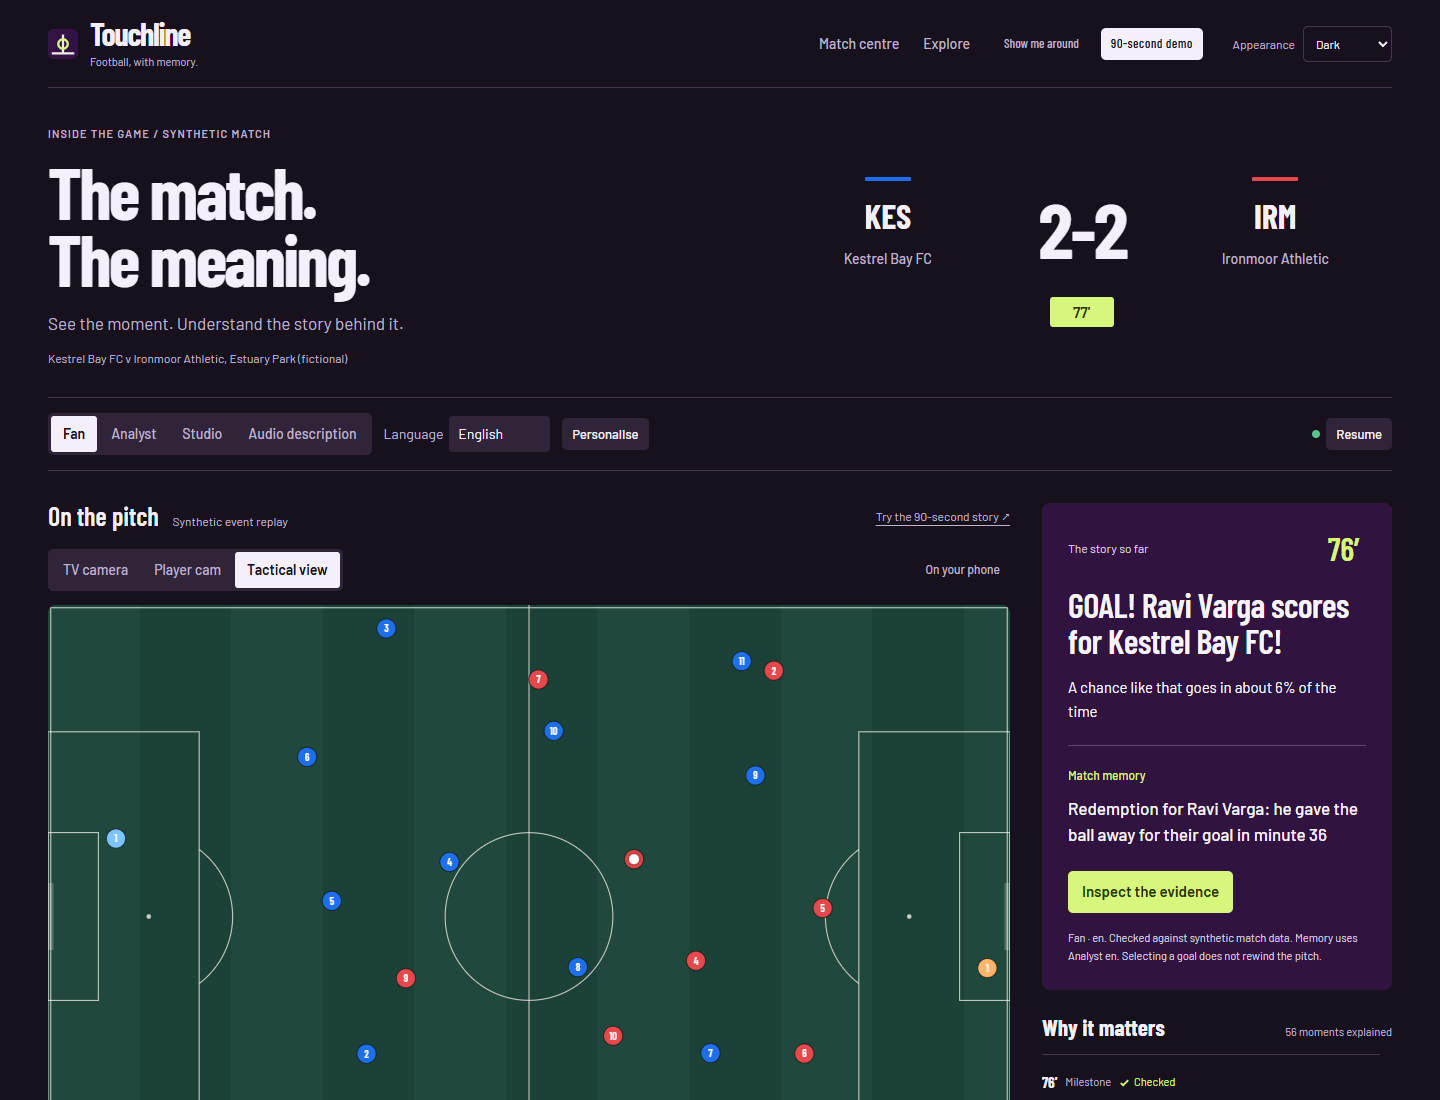
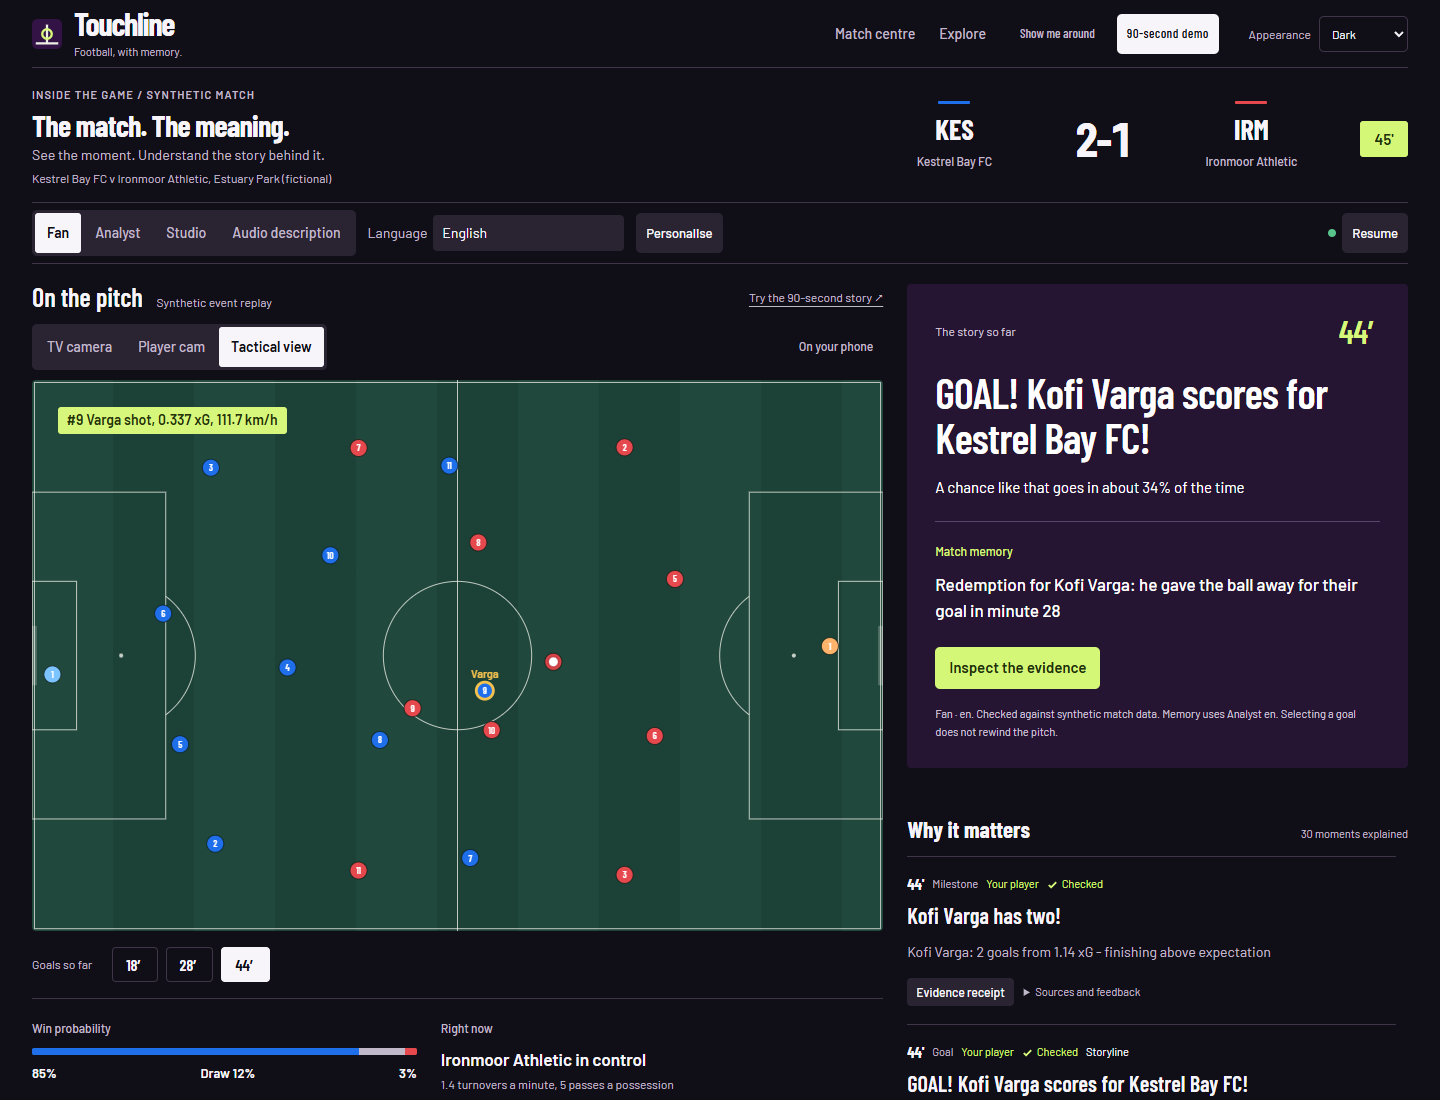
Fix hosted agent schemas and Functions indexing; preserve cloud proof (#8)

diff --git a/web/templates/touchline-graphics.html b/web/templates/touchline-graphics.html
@@ -160,4 +160,3 @@ if (qs.get("demo")) { document.body.classList.add("preview"); window.update(wind
 </script>
 </body>
 </html>
-

diff --git a/touchline/foundry_agents.py b/touchline/foundry_agents.py
@@ -24,6 +24,30 @@ log = logging.getLogger("touchline.foundry")
 PUBLISHED = {"AskTheAnalyst": "touchline-analyst", "Narrator": "touchline-narrator"}
 
 
+def strict_tool_schemas(definition):
+    """Complete the strict function schema contract omitted by to_prompt_agent.
+
+    Foundry accepts agent creation with an incomplete schema, then rejects every
+    invocation. Normalize before publication so the deployed definition is usable.
+    """
+    def normalize(node):
+        if isinstance(node, list):
+            for item in node:
+                normalize(item)
+        elif isinstance(node, dict):
+            node.pop("default", None)
+            if node.get("type") == "object" or "properties" in node:
+                node["additionalProperties"] = False
+                node["required"] = list(node.get("properties", {}))
+            for child in node.values():
+                if isinstance(child, (dict, list)):
+                    normalize(child)
+    for tool in definition.tools or []:
+        if tool.type == "function" and tool.strict:
+            normalize(tool.parameters)
+    return definition
+
+
 def definitions() -> dict[str, dict]:
     """Agent name -> description, instructions and (for tool-using agents) the tool functions."""
     from touchline.agents.ask import INSTRUCTIONS as ASK
@@ -57,11 +81,18 @@ def hosted_agent(runtime_name: str, tools: Optional[list[Callable]] = None):
         return None
     try:
         from agent_framework.foundry import FoundryAgent
+        from azure.ai.projects import AIProjectClient
         from azure.identity import DefaultAzureCredential
 
+        credential = DefaultAzureCredential()
+        version = os.getenv(f"TOUCHLINE_AGENT_VERSION_{PUBLISHED[runtime_name].split('-')[-1].upper()}")
+        if not version:
+            # Prompt agents require a version. Resolve the service's latest
+            # explicitly instead of allowing an implicit older default.
+            with AIProjectClient(endpoint=endpoint, credential=credential) as project:
+                version = project.agents.get(agent_name=PUBLISHED[runtime_name]).versions.latest.version
         return FoundryAgent(project_endpoint=endpoint, agent_name=PUBLISHED[runtime_name],
-                            agent_version=os.getenv(f"TOUCHLINE_AGENT_VERSION_{PUBLISHED[runtime_name].split('-')[-1].upper()}") or None,
-                            credential=DefaultAzureCredential(), tools=tools or None)
+                            agent_version=version, credential=credential, tools=tools or None)
     except Exception as exc:  # pragma: no cover - depends on Azure
         log.warning("Foundry hosted agent %s unavailable, using a local agent: %s", runtime_name, exc)
         return None
@@ -82,7 +113,7 @@ def publish(endpoint: str, model: str, rai_policy: str, git_sha: str = "") -> li
     for name, d in definitions().items():
         tools = tool_stubs() if d["tools"] == "analyst" else None
         agent = Agent(client, d["instructions"], name=name, description=d["description"], tools=tools)
-        definition = to_prompt_agent(agent, rai_config=RaiConfig(rai_policy_name=rai_policy))
+        definition = strict_tool_schemas(to_prompt_agent(agent, rai_config=RaiConfig(rai_policy_name=rai_policy)))
         v = project.agents.create_version(agent_name=name, definition=definition, description=d["description"],
                                           metadata={"app": "touchline", "git": git_sha[:12] or "local"})
         out.append({"name": name, "version": getattr(v, "version", None) or v.get("version"), "tools": len(tools or [])})

diff --git a/tests/test_foundry.py b/tests/test_foundry.py
@@ -2,7 +2,7 @@
 import importlib.util
 from pathlib import Path
 
-from touchline.foundry_agents import definitions, hosted_agent, tool_stubs
+from touchline.foundry_agents import definitions, hosted_agent, tool_stubs, strict_tool_schemas
 
 spec = importlib.util.spec_from_file_location("feval", Path(__file__).resolve().parents[1] / "scripts" / "foundry_eval.py")
 feval = importlib.util.module_from_spec(spec); spec.loader.exec_module(feval)
@@ -27,6 +27,27 @@ def test_hosted_agent_off_without_env(monkeypatch):
     assert hosted_agent("AskTheAnalyst") is None
 
 
+def test_hosted_agent_uses_pinned_or_latest_published_version(monkeypatch):
+    from unittest.mock import MagicMock
+    import agent_framework.foundry
+    import azure.ai.projects
+    monkeypatch.setenv("TOUCHLINE_FOUNDRY_AGENTS", "on")
+    monkeypatch.setenv("FOUNDRY_PROJECT_ENDPOINT", "https://example.services.ai.azure.com/api/projects/p")
+    monkeypatch.delenv("TOUCHLINE_AGENT_VERSION_ANALYST", raising=False)
+    client = MagicMock()
+    client.return_value.__enter__.return_value.agents.get.return_value.versions.latest.version = "7"
+    factory = MagicMock()
+    monkeypatch.setattr(azure.ai.projects, "AIProjectClient", client)
+    monkeypatch.setattr(agent_framework.foundry, "FoundryAgent", factory)
+    hosted_agent("AskTheAnalyst")
+    assert factory.call_args.kwargs["agent_version"] == "7"
+    client.reset_mock()
+    monkeypatch.setenv("TOUCHLINE_AGENT_VERSION_ANALYST", "2")
+    hosted_agent("AskTheAnalyst")
+    assert factory.call_args.kwargs["agent_version"] == "2"
+    client.assert_not_called()
+
+
 def test_prompt_agent_definition_carries_tools_and_safety_policy():
     from agent_framework import Agent
     from agent_framework.foundry import FoundryChatClient, to_prompt_agent
@@ -40,8 +61,14 @@ def test_prompt_agent_definition_carries_tools_and_safety_policy():
     c = FoundryChatClient(project_endpoint="https://example.services.ai.azure.com/api/projects/p", model="gpt-4.1-mini", credential=Fake())
     a = Agent(c, definitions()["touchline-analyst"]["instructions"], name="touchline-analyst", tools=tool_stubs())
     policy = "/subscriptions/sub/resourceGroups/rg/providers/Microsoft.CognitiveServices/accounts/ai/raiPolicies/Microsoft.DefaultV2"
-    j = to_prompt_agent(a, rai_config=RaiConfig(rai_policy_name=policy)).as_dict()
+    j = strict_tool_schemas(to_prompt_agent(a, rai_config=RaiConfig(rai_policy_name=policy))).as_dict()
     assert j["model"] == "gpt-4.1-mini" and len(j["tools"]) == 6 and j["rai_config"]["rai_policy_name"] == policy
+    for tool in j["tools"]:
+        params = tool["parameters"]
+        assert tool["strict"] and params["additionalProperties"] is False
+        assert set(params["required"]) == set(params["properties"])
+    events = next(t for t in j["tools"] if t["name"] == "get_events")
+    assert events["parameters"]["properties"]["minute_from"]["type"] == "integer"
 
 
 def test_touchline_eval_checks():

diff --git a/tests/test_enterprise.py b/tests/test_enterprise.py
@@ -75,6 +75,12 @@ def test_functions_app_registers():
     spec = importlib.util.spec_from_file_location("function_app", p)
     m = importlib.util.module_from_spec(spec); sys.modules["function_app"] = m; spec.loader.exec_module(m)
     assert {f.get_function_name() for f in m.app.get_functions()} == {"on_insight", "packages", "watchdog"}
+    # The deployed Python 3.11 worker rejects PEP 585 list[EventHubEvent]
+    # during indexing; its batch-binding contract uses typing.List.
+    from typing import List, get_type_hints
+    import azure.functions as func
+    handler = m.on_insight.build().get_user_function()
+    assert get_type_hints(handler)["events"] == List[func.EventHubEvent]
 
 
 def test_viewer_feedback_is_counted(monkeypatch):

diff --git a/functions/function_app.py b/functions/function_app.py
@@ -16,6 +16,7 @@ from __future__ import annotations
 
 import datetime as dt
 import json
+from typing import List
 import hashlib
 import logging
 import os
@@ -63,7 +64,7 @@ def teams_card(pkg: dict, app_url: str = "") -> dict:
 
 @app.event_hub_message_trigger(arg_name="events", event_hub_name="touchline-insights", connection="EventHubConnection",
                                consumer_group="packages", cardinality=func.Cardinality.MANY)
-def on_insight(events: list[func.EventHubEvent]) -> None:
+def on_insight(events: List[func.EventHubEvent]) -> None:
     c = _blobs()
     for e in events:
         try:

diff --git a/scripts/foundry_eval.py b/scripts/foundry_eval.py
@@ -148,4 +148,3 @@ confirm what matters on air: no number the tools did not return, citations for "
 
 if __name__ == "__main__":
     sys.exit(asyncio.run(main()))
-

diff --git a/README.md b/README.md
@@ -1,6 +1,6 @@
 <div align="center">
 
-<img src="docs/judge-editorial.png" width="100%" alt="Touchline: One player. Every turning point. The functioning judge entrance with an original AI illustration of fictional striker Kofi Varga.">
+<img src="docs/film-poster.jpg" width="100%" alt="Touchline: The goal is only half the story. Final film poster featuring the fictional striker Varga, labeled synthetic match and original AI illustration.">
 
 # Touchline
 
@@ -15,7 +15,7 @@ personalized graphics and broadcaster-ready outputs. Built for the Microsoft × 
 ![Python 3.12+](https://img.shields.io/badge/python-3.12%2B-0f2b20.svg)
 ![Microsoft Agent Framework](https://img.shields.io/badge/Agent%20Framework-1.22-0f6cbd.svg)
 
-[Try it locally](#try-the-90-second-demo) · [Evidence](#what-we-have-measured) · [Architecture](#how-it-works) · [Deploy](#deploy-to-azure) · [Category case](docs/WINNING_CASE.md)
+[Open the live demo](https://ca-touchline-3a2uvrfhbicqc.livelytree-3fdb8286.southeastasia.azurecontainerapps.io/judge) · [Run locally](#try-the-90-second-demo) · [Evidence](#what-we-have-measured) · [Architecture](#how-it-works) · [Deploy](#deploy-to-azure) · [Category case](docs/WINNING_CASE.md)
 
 </div>
 
@@ -102,9 +102,7 @@ Open its receipt to inspect the checks and download the proof. The full app at
 [localhost:8000](http://localhost:8000) adds player focus, four built-in languages, commentary,
 recaps, counterfactuals, a phone view and personalized highlights.
 
-**Deployment status:** this repository contains tested deployment code. A public demo URL,
-live Foundry evaluation and Azure delivery results are not yet recorded. Follow the
-[deployment evidence runbook](docs/DEPLOYMENT_PROOF.md); do not treat local tests as cloud proof.
+**Live on Azure:** [open Judge Mode](https://ca-touchline-3a2uvrfhbicqc.livelytree-3fdb8286.southeastasia.azurecontainerapps.io/judge). The public app passed readiness, a version-2 hosted Foundry analyst request completed without fallback, and the Event Hubs → Functions → Blob path produced the corrected 3–2 match package and social cards. [Observed cloud evidence](docs/evidence/cloud-chain.json) and [deployment notes](docs/DEPLOYMENT_PROOF.md) record the scope. This is functional proof, not an availability SLA or participant validation.
 
 ## What we have measured
 
@@ -114,6 +112,8 @@ live Foundry evaluation and Azure delivery results are not yet recorded. Follow 
 | [Specialist ablation](docs/ABLATION.md) | Effects of removing the ingest guard, scout, storyline, checker and editorial scheduler | A head-to-head comparison against a capable single-agent system |
 | [Single-agent comparison protocol](docs/AGENT_COMPARISON.md) | Reproducible, bounded comparison of narration strategies on identical inputs | Live-model results until the run is actually performed |
 | [Load experiment](docs/LOADTEST.md) | A historical 30-second, co-located streaming experiment | Full-match capacity, multi-replica operation or an Azure SLA |
+| [Cloud execution](docs/evidence/cloud-chain.json) and [downloaded Blob proof](docs/evidence/blob-packages.json) | A hosted Foundry answer without fallback and actual demo/live Functions packages | Semantic truth, production SLA or human validation |
+| [Final film validation](docs/FINAL_VIDEO.md) | 115-second Brag film recorded from the deployed app, with narration and captions | Public video hosting or completed hackathon submission |
 | [CI](https://github.com/likalight/touchline/actions/workflows/ci.yml) | Automated tests, evaluation gate, Bicep build and container smoke checks | Successful provisioning in a particular Azure subscription |
 | [Match memory browser journey](tests/story-browser.cjs) | Full replay, navigation, original-event map, audience switching, stale-request isolation, downloads and responsive layouts | A human usability study or cross-browser accessibility certification |
 
@@ -190,7 +190,7 @@ python scripts/smoke_deployment.py https://YOUR_APP --output evidence/cloud-smok
 
 The command makes a billable model request. It rejects offline/router answers and fallback
 execution. To verify the downstream chain for a published, completed synthetic match, add
-`--match-id SYN-00221` using the exact match ID returned by your feed. The full procedure,
+`--match-id SYN-00087` using the exact match ID returned by your feed. The full procedure,
 recovery drill and result requirements are in [DEPLOYMENT_PROOF.md](docs/DEPLOYMENT_PROOF.md).
 
 ### Reliability boundaries

diff --git a/docs/DEPLOYMENT_PROOF.md b/docs/DEPLOYMENT_PROOF.md
@@ -1,8 +1,24 @@
 # Deployment evidence runbook
 
-Status: **not yet executed against Azure for this revision**. Do not mark a step passed until
-its actual output is saved. Commands create billable activity; use the chosen subscription,
-region and spending cap. Keep synthetic-only test data and do not publish credentials.
+Status: **functional cloud chain verified on 28 October 2026 (Singapore time)**.
+
+- [Live Judge Mode](https://ca-touchline-3a2uvrfhbicqc.livelytree-3fdb8286.southeastasia.azurecontainerapps.io/judge): public readiness passed.
+- [Request-level evidence](evidence/cloud-chain.json): hosted Foundry analyst, `gpt-4.1-mini`, completed without fallback and used a scoreboard tool. The numeric/citation checker does not establish semantic entailment.
+- Corrected agent versions: analyst **2**, narrator **2**, pinned in the deployment.
+- Functions indexed after changing the Event Hubs batch annotation to `typing.List[EventHubEvent]` for the deployed Python 3.11 worker.
+- Event Hubs received seed 87 (1,917 events). Functions produced score 3–2, recaps and social-card paths in Blob Storage. The demo and live feed can produce separate packages for the same synthetic match ID.
+- The completed live session restored score 3–2 after an application configuration restart. This observation alone does not prove mid-match crash recovery or an exactly-once outbound outbox.
+- Original deployed container: CI commit `7914b673e8ddb56b005e2989a75a5762e3b967f9`, digest `sha256:ebd23a1d90a89452eb101395261c8ff4756d0566b14726fea87ef184a3aa4454`.
+
+### Deployment lessons
+
+The student subscription rejects ACR Tasks. CI builds and smoke-tests the image, then exports a short-lived container artifact; the deployer pushes it to the existing ACR with `crane`. No Azure credential is sent to GitHub Actions.
+
+The installed Container Apps CLI dropped the Express environment's registry identity configuration. Applying the registry identity and image digest together with Azure REST API `2026-07-01` succeeded. Preserve the current ingress, environment variables and identity when patching. Do not reprovision the placeholder image over a working deployment.
+
+Foundry accepted publication with an incomplete strict function schema but rejected invocation. Publication now supplies `additionalProperties: false` and requires every declared property. Runtime uses an explicit pinned agent version, or resolves the latest published version. Preserve the published version IDs in deployment evidence.
+
+The remaining runbook below includes stronger experiments and governance setup; those are **not** implied to have passed by this functional deployment.
 
 ## 1. Provision and establish the public URL
 
@@ -43,8 +59,8 @@ Set `TOUCHLINE_EVENTHUB_NAMESPACE` from the provisioned environment. The publish
 needs Event Hubs Data Sender. Publish only one active match on partition 0:
 
 ```bash
-python scripts/publish_feed.py --seed 221 --speed 40
-python scripts/smoke_deployment.py https://YOUR_APP --match-id SYN-00221 --output evidence/cloud-chain.json
+python scripts/publish_feed.py --seed 87 --speed 40
+python scripts/smoke_deployment.py https://YOUR_APP --match-id SYN-00087 --output evidence/cloud-chain.json
 ```
 
 Wait for Functions to finish before running the second command. It makes another hosted model

diff --git a/docs/SUBMISSION.md b/docs/SUBMISSION.md
@@ -15,8 +15,7 @@ and model-backed language generation. Azure Container Apps, Event Hubs, Function
 Storage connect the live experience to downstream packages. Inspect a receipt to see the
 facts, original checks, handoffs and audience versions behind a graphic.
 
-**Readiness:** public deployment, live Foundry evidence and participant results must be added
-after they are observed. Do not submit claims that these steps have already passed.
+**Readiness:** [public Azure demo](https://ca-touchline-3a2uvrfhbicqc.livelytree-3fdb8286.southeastasia.azurecontainerapps.io/judge) and [hosted Foundry/downstream evidence](evidence/cloud-chain.json) are verified. Real participant results are still unavailable. The [final Brag film](FINAL_VIDEO.md) is rendered from this deployed app; publish its actual output URL before submitting.
 
 ## The argument, in three demonstrations
 
@@ -45,7 +44,7 @@ do not substitute Brag's default short launch format for the required demonstrat
 Enable narration explicitly (`/brag --voice` in the documented full workflow), retain
 readable captions and synthetic-data disclosures, and verify rights for any music used.
 Read the current `skills/brag/SKILL.md` and check its prerequisites when video production
-starts. This selection records the production plan; Brag has not yet been installed or run.
+starts. Brag and Hyperframes have been run against the corrected app; the final film uses actual Azure UI footage.
 
 Record the deployed app after the cloud checks pass. Use only fictional match assets. Use
 original narration; avoid copyrighted music and unrelated marks. Trim transitions and rehearse.
@@ -97,5 +96,3 @@ excludes model rewrites, speech and browser delivery. Describe the [ablation](AB
 component-removal experiments, not a complete single-agent comparison. Describe the historical
 [load experiment](LOADTEST.md) as a short co-located run, not a capacity guarantee. Report user
 study results only after conducting and documenting the sessions.
-
-

diff --git a/docs/EVAL.md b/docs/EVAL.md
@@ -9,9 +9,9 @@
 | Goals explained | 100.0% (28 goals) | 100% |
 | Citations resolving to a real, non-future event | 0 errors | 0 |
 | Renders per insight (4 personas x 4 languages) | 16, 0 template leaks | 0 leaks |
-| Moments explained per match | 61.2 | - |
-| Agent pipeline latency per moment, p50 / p95 | 4.55 / 7.12 ms | p95 < 250 ms |
-| Event -> state update, p50 / p95 | 0.32 / 1.22 ms | p95 < 5 ms |
+| Moments explained per match | 60.8 | - |
+| Agent pipeline latency per moment, p50 / p95 | 2.97 / 3.81 ms | p95 < 250 ms |
+| Event -> state update, p50 / p95 | 0.19 / 0.53 ms | p95 < 5 ms |
 | Faulty feed recovered exactly-once, in order | 100% of matches | 100% |
 
 
@@ -19,25 +19,25 @@ Moment kinds explained across the run:
 
 | Kind | Count |
 |---|---|
-| line_break | 114 |
+| line_break | 116 |
 | momentum | 87 |
 | sprint | 71 |
-| hard_pass | 68 |
+| hard_pass | 67 |
 | phase | 62 |
 | long_carry | 38 |
 | standout | 36 |
-| press | 31 |
-| saves | 29 |
 | goal | 28 |
+| press | 28 |
+| saves | 28 |
 | story_duel | 25 |
-| card_yellow | 25 |
+| card_yellow | 24 |
 | rhythm | 23 |
-| story_channel | 15 |
-| story_fatigue | 14 |
+| story_channel | 14 |
 | chance_missed | 14 |
+| story_fatigue | 13 |
 | half_time | 12 |
 | full_time | 12 |
-| chance_saved | 9 |
+| chance_saved | 10 |
 | brace | 8 |
 | story_waste | 6 |
 | wp_swing | 3 |
@@ -45,9 +45,9 @@ Moment kinds explained across the run:
 | story_keeper | 2 |
 | card_red | 1 |
 
-Storyline callbacks woven into live insights (match-long memory): s.error 11, s.comeback 11, s.keeper 3, s.run_of_play 2.
+Storyline callbacks woven into live insights (match-long memory): s.error 11, s.comeback 11, s.run_of_play 2.
 
-Gate: PASSED. Wall time 26.5 s.
+Gate: PASSED. Wall time 14.3 s.
 
 ## Auto-eventing from video (top-down feed)
 

diff --git a/docs/FINAL_VIDEO.md b/docs/FINAL_VIDEO.md
@@ -1,0 +1,14 @@
+# Final submission film
+
+Produced with the requested [Brag workflow](https://github.com/latent-spaces/brag) and Hyperframes on 28 October 2026 (Singapore time).
+
+- Master: `brag.mp4`, **115 seconds**, 1920×1080, 30 fps, 3,450 frames, AAC 48 kHz, approximately 20.6 MB.
[1 lines of base64/hex data omitted]
+- Actual Azure UI footage: mistake at 28′, redemption at 44′, source-event map, audience comparison, receipt, checker, 90′ winner and alternate endings.
+- Synthetic match and original AI illustration are disclosed. Narration uses local Kokoro; licensed background music and credits accompany the deliverable.
+- Sidecars: poster, SRT/VTT captions, accessible local player, editable composition, audio/footage ledger and validation JSON.
+- Validation: zero Hyperframes errors or warnings; 20/20 text contrast checks. Full video decode passed; representative final frames inspected. Poster baked into frame zero. Measured audio −16.04 LUFS / −1.42 dBTP.
+
+The film and editable package are delivered separately from Git under `outputs/final-video/` in the working session. **No public video upload or hackathon submission has been performed.** Upload the master to an accepted host and verify its public URL before submitting.
+
+[Live demo](https://ca-touchline-3a2uvrfhbicqc.livelytree-3fdb8286.southeastasia.azurecontainerapps.io/judge) · [Observed cloud chain](evidence/cloud-chain.json) · [Blob package proof](evidence/blob-packages.json)

diff --git a/docs/WINNING_CASE.md b/docs/WINNING_CASE.md
@@ -1,5 +1,7 @@
 # The case for Touchline, category by category
 
+**28 October implementation update:** the active-roster bug is fixed; the Azure demo, hosted Foundry request and Event Hubs → Functions → Blob package path are verified ([evidence](evidence/cloud-chain.json)). The [final Brag film](FINAL_VIDEO.md) is rendered. The dated finishing plan below predates those results. Public video upload, actual submission confirmation, human testing and the full model comparison/evaluation remain separate tasks.
+
 Research checked 26 October 2026 against the [official rules](https://github.com/microsoft/insidethegamehackathon/blob/main/OFFICIAL%20RULES.md), [Microsoft's agent orchestration guidance](https://learn.microsoft.com/en-us/azure/architecture/ai-ml/guide/ai-agent-design-patterns), [Foundry agent evaluators](https://learn.microsoft.com/en-us/azure/foundry/concepts/evaluation-evaluators/agent-evaluators), and [Event Hubs checkpoint guidance](https://learn.microsoft.com/en-us/azure/event-hubs/event-hubs-python-get-started-send).
 
 The rules give equal weight to implementation, agentic innovation, impact, UX/presentation and category fit. An entrant can receive one Grand Prize and one Category Prize. This is our strategy and evidence register, not a prediction of the judges' decision or an assessment of undisclosed competitors.
